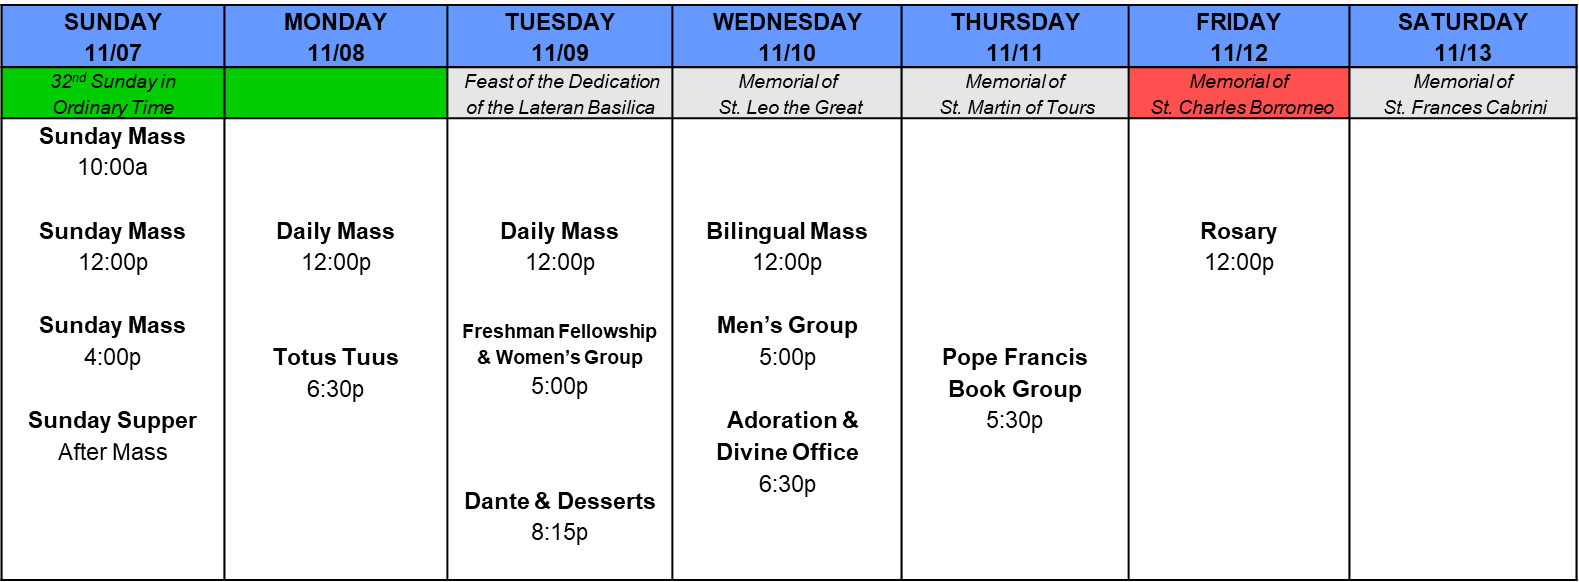
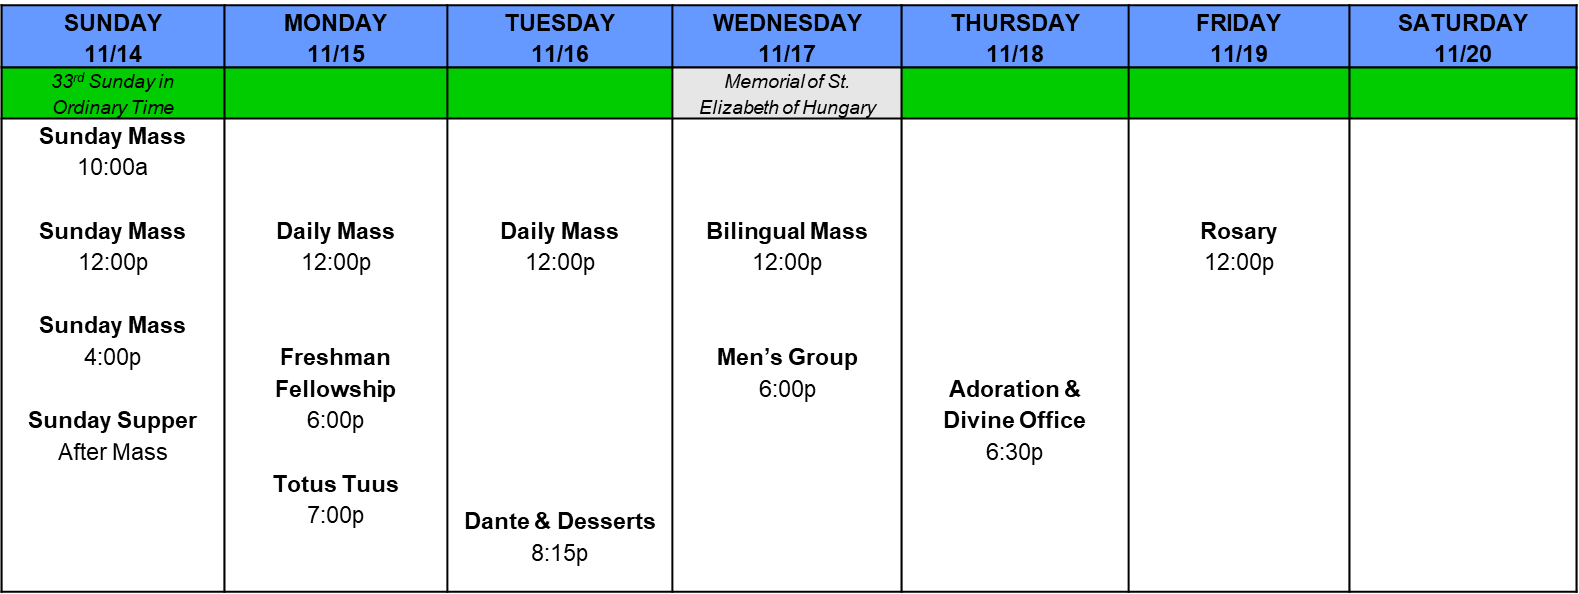
11/14

diff --git a/index.html b/index.html
@@ -10,29 +10,27 @@
 <body style="padding:2%">
 
 <p><img style="width: 900px;" src="banner.png" /></p>
-<h1><span style="color: #707070;">Events and Announcements for 11/07 - 11/13</span></h1>
+<h2><span style="color: #707070;">Events and Announcements for 11/14 - 11/20</span></h2>
 <p>&nbsp;</p>
 <h2><span style="text-decoration: underline;"><span style="color: #707070; text-decoration: underline;">Important Announcements</span></span></h2>
-<h3><span style="color: #0044aa;"><strong>Interested in being an Altar Server, Lector, or EM?</strong></span></h3>
-<p>If you&rsquo;re interested in reading, serving, or administering Holy Communion at Mass, please reach out to Lily Gray (<a href="mailto:lmg11@rice.edu">lmg11@rice.edu</a>)!&nbsp; <br />You can also join our GroupMe here: <a href="https://groupme.com/join_group/69985800/wRw63DaM">https://groupme.com/join_group/69985800/wRw63DaM</a></p>
+<h3><span style="color: #0044aa;"><strong>Christmas Tree Set-Up</strong></span></h3>
+<p class="tab"><strong><u>Contact: </u></strong><u>Leslie Arrazolo (<a href="mailto:lka3@rice.edu">lka3@rice.edu</a>)</u><br />We'll be setting up the Christmas Tree in the CSC this Thursday morning!&nbsp; Swing by for some festive cheer and fellowship!</p>
 <p class="tab">&nbsp;</p>
-<p class="tab">&nbsp;</p>
-<h2><span style="text-decoration: underline;"><span style="color: #707070; text-decoration: underline;">Important Announcements</span></span></h2>
+<h2><span style="text-decoration: underline;"><span style="color: #707070; text-decoration: underline;">Events</span></span></h2>
 <p><img style="width: 864px;" src="cal.png" /></p>
-<p class="tab">&nbsp;</p>
-<h3><span style="color: #0044aa;"><strong>Totus Tuus Small Group</strong></span></h3>
-<p class="tab"><strong><u>Martel PDR | Mon. 6:30p - 7:30p | Contact: </u></strong><u>Leslie Arrazolo (<a href="mailto:lka3@rice.edu">lka3@rice.edu</a>)<br /></u>A call to all the wonderful Latina ladies to join Totus Tuus! This small group is inspired by JPII's beautiful consecration to Mary. Join Leslie, Karina, and Alyssa\ in this small group as we share our common experiences and grow in relationship with our beloved Mother, and let her know that we are hers.&nbsp; Text Leslie at (956) 443-7595 if you would like to be added to our group chat!</p>
 <h3><span style="color: #0044aa;">Freshman Fellowship</span></h3>
-<p class="tab"><span style="text-decoration: underline;"> <strong>CSC | Tue. 5:00p - 6:00p | Contact:</strong> Joseph Paci, Katie Impelman (<a href="mailto:jpp5@rice.edu">jpp5@rice.edu</a>, <a href="mailto:kai3@rice.edu">kai3@rice.edu</a>)<br /></span>Are you new to Rice and looking to grow in your faith and get to know your fellow Catholics better? Come to Freshmen Fellowship! We meet one evening a week for dinner and group discussions centered on the faith.</p>
-<h3><span style="color: #0044aa;"><strong>Women&rsquo;s Group</strong></span></h3>
-<p class="tab"><strong><u>CSC | Tue. 5:00p - 6:00p | Contact: </u></strong><u>Karen Martinez Perez (</u><a href="mailto:kmm10@rice.edu">kmm10@rice.edu</a><u>) <br /></u>Join us for a discussion on the role of faith in addressing the struggles and fears we face as women. This is a safe space for us to share and support each other &lt;3</p>
+<p class="tab"><span style="text-decoration: underline;"> <strong>CSC | Mon. 6:00p - 7:00p | Contact:</strong> Joseph Paci, Katie Impelman (<a href="mailto:jpp5@rice.edu">jpp5@rice.edu</a>, <a href="mailto:kai3@rice.edu">kai3@rice.edu</a>)</span></p>
+<p class="tab">Are you new to Rice and looking to grow in your faith and get to know your fellow Catholics better? Come to Freshmen Fellowship! We meet one evening a week for dinner and group discussions centered on the faith.</p>
+<h3><span style="color: #0044aa;"><strong>Totus Tuus Small Group</strong></span></h3>
+<p class="tab"><strong><u>Martel PDR | Mon. 7:00p - 8:00p | Contact: </u></strong><u>Leslie Arrazolo (<a href="mailto:lka3@rice.edu">lka3@rice.edu</a>)<br /></u>A call to all the wonderful Latina ladies to join Totus Tuus! This small group is inspired by JPII's beautiful consecration to Mary. Join Leslie, Karina, and Alyssa in this small group as we share our common experiences and grow in relationship with our beloved Mother, and let her know that we are hers.&nbsp; Text Leslie at (956) 443-7595 if you would like to be added to our group chat!</p>
 <h3><span style="color: #0044aa;"><strong>Dante &amp; Desserts</strong></span></h3>
 <p class="tab"><u><strong>CSC | Tue. 8:15p - 9:00p | Contact: </strong>Mimi Tran (<a href="mailto:mimi.ricecm@gmail.com">mimi.ricecm@gmail.com</a>)<br /></u>Join us weekly for 100 days of Dante as we read through The Divine Comedy and enjoy a sweet treat alongside our guided group discussion!</p>
-<h3><span style="color: #0044aa;">Reconciliation, Adoration, and Divine Office</span></h3>
-<p class="tab"><strong><u>St. Mary&rsquo;s Chapel | Wed. 6:30p - 7:30p | Contact: </u></strong><u>Michael Katona (</u><a href="mailto:katona@rice.edu">katona@rice.edu</a><u>), </u><br />Come learn how to pray the Divine Office &ndash; a series of daily prayers which, along with the Mass, constitute the public prayer life of the Church.&nbsp; We will be praying the Vespers (evening prayer), in the presence of Christ.&nbsp; If you are able, please download the iBreviary app to follow along with the hymns, antiphons, and readings.&nbsp; <br />Fr. Ray will be hearing confessions from 6:45p &ndash; 7:30p.</p>
-<h3><span style="color: #0044aa;">Pope Francis Book Group</span></h3>
-<p class="tab"><span style="text-decoration: underline;"> <strong>CSC | Thr. 5:30p - 6:30p | Contact:</strong> Trey Weltens (<a href="mailto:cmw20@rice.edu">cmw20@rice.edu</a>)<br /></span>Join us for a 6-week guided reading of Fratelli Tutti, Pope Francis&rsquo; 2020 encyclical.</p>
+<h3><span style="color: #0044aa;"><strong>Men&rsquo;s Group</strong></span></h3>
+<p class="tab"><strong><u>CSC | Wed. 6:00p - 7:00p | Contact: </u></strong><u>Nicholas Soria (</u><a href="mailto:nrs4@rice.edu">nrs4@rice.edu</a><u>)</u><br />Fellowship by and for men. Come to talk the faith together, and particularly to grow in the spiritual life. Group prayer, group reading, etc.</p>
+<h3><span style="color: #0044aa;">Divine Office &amp; Adoration</span></h3>
+<p class="tab"><span style="text-decoration: underline;"> <strong>St. Mary's Chapel | Thr. 6:30p - 7:30p | Contact:</strong> Michael Katona (<a href="mailto:katona@rice.edu">katona@rice.edu</a>)<br /></span>Come learn how to pray the Divine Office &ndash; a series of daily prayers which, along with the Mass, constitute the public prayer life of the Church. We will be praying the Vespers (evening prayer), followed by Adoration. If you are able, please download the iBreviary app to follow along with the hymns, antiphons, and readings.</p>
 <h3><span style="color: #0044aa;">Rosary</span></h3>
 <p class="tab"><span style="text-decoration: underline;"> <strong>Baker Fountain | Fri. 12:00p | Contact:</strong> Joseph Paci (<a href="mailto:jpp5@rice.edu">jpp5@rice.edu</a>)<br /></span>Join us Fridays at noon outside of the Baker fountain to pray a rosary together!</p>
+
 </body>
 </html>
